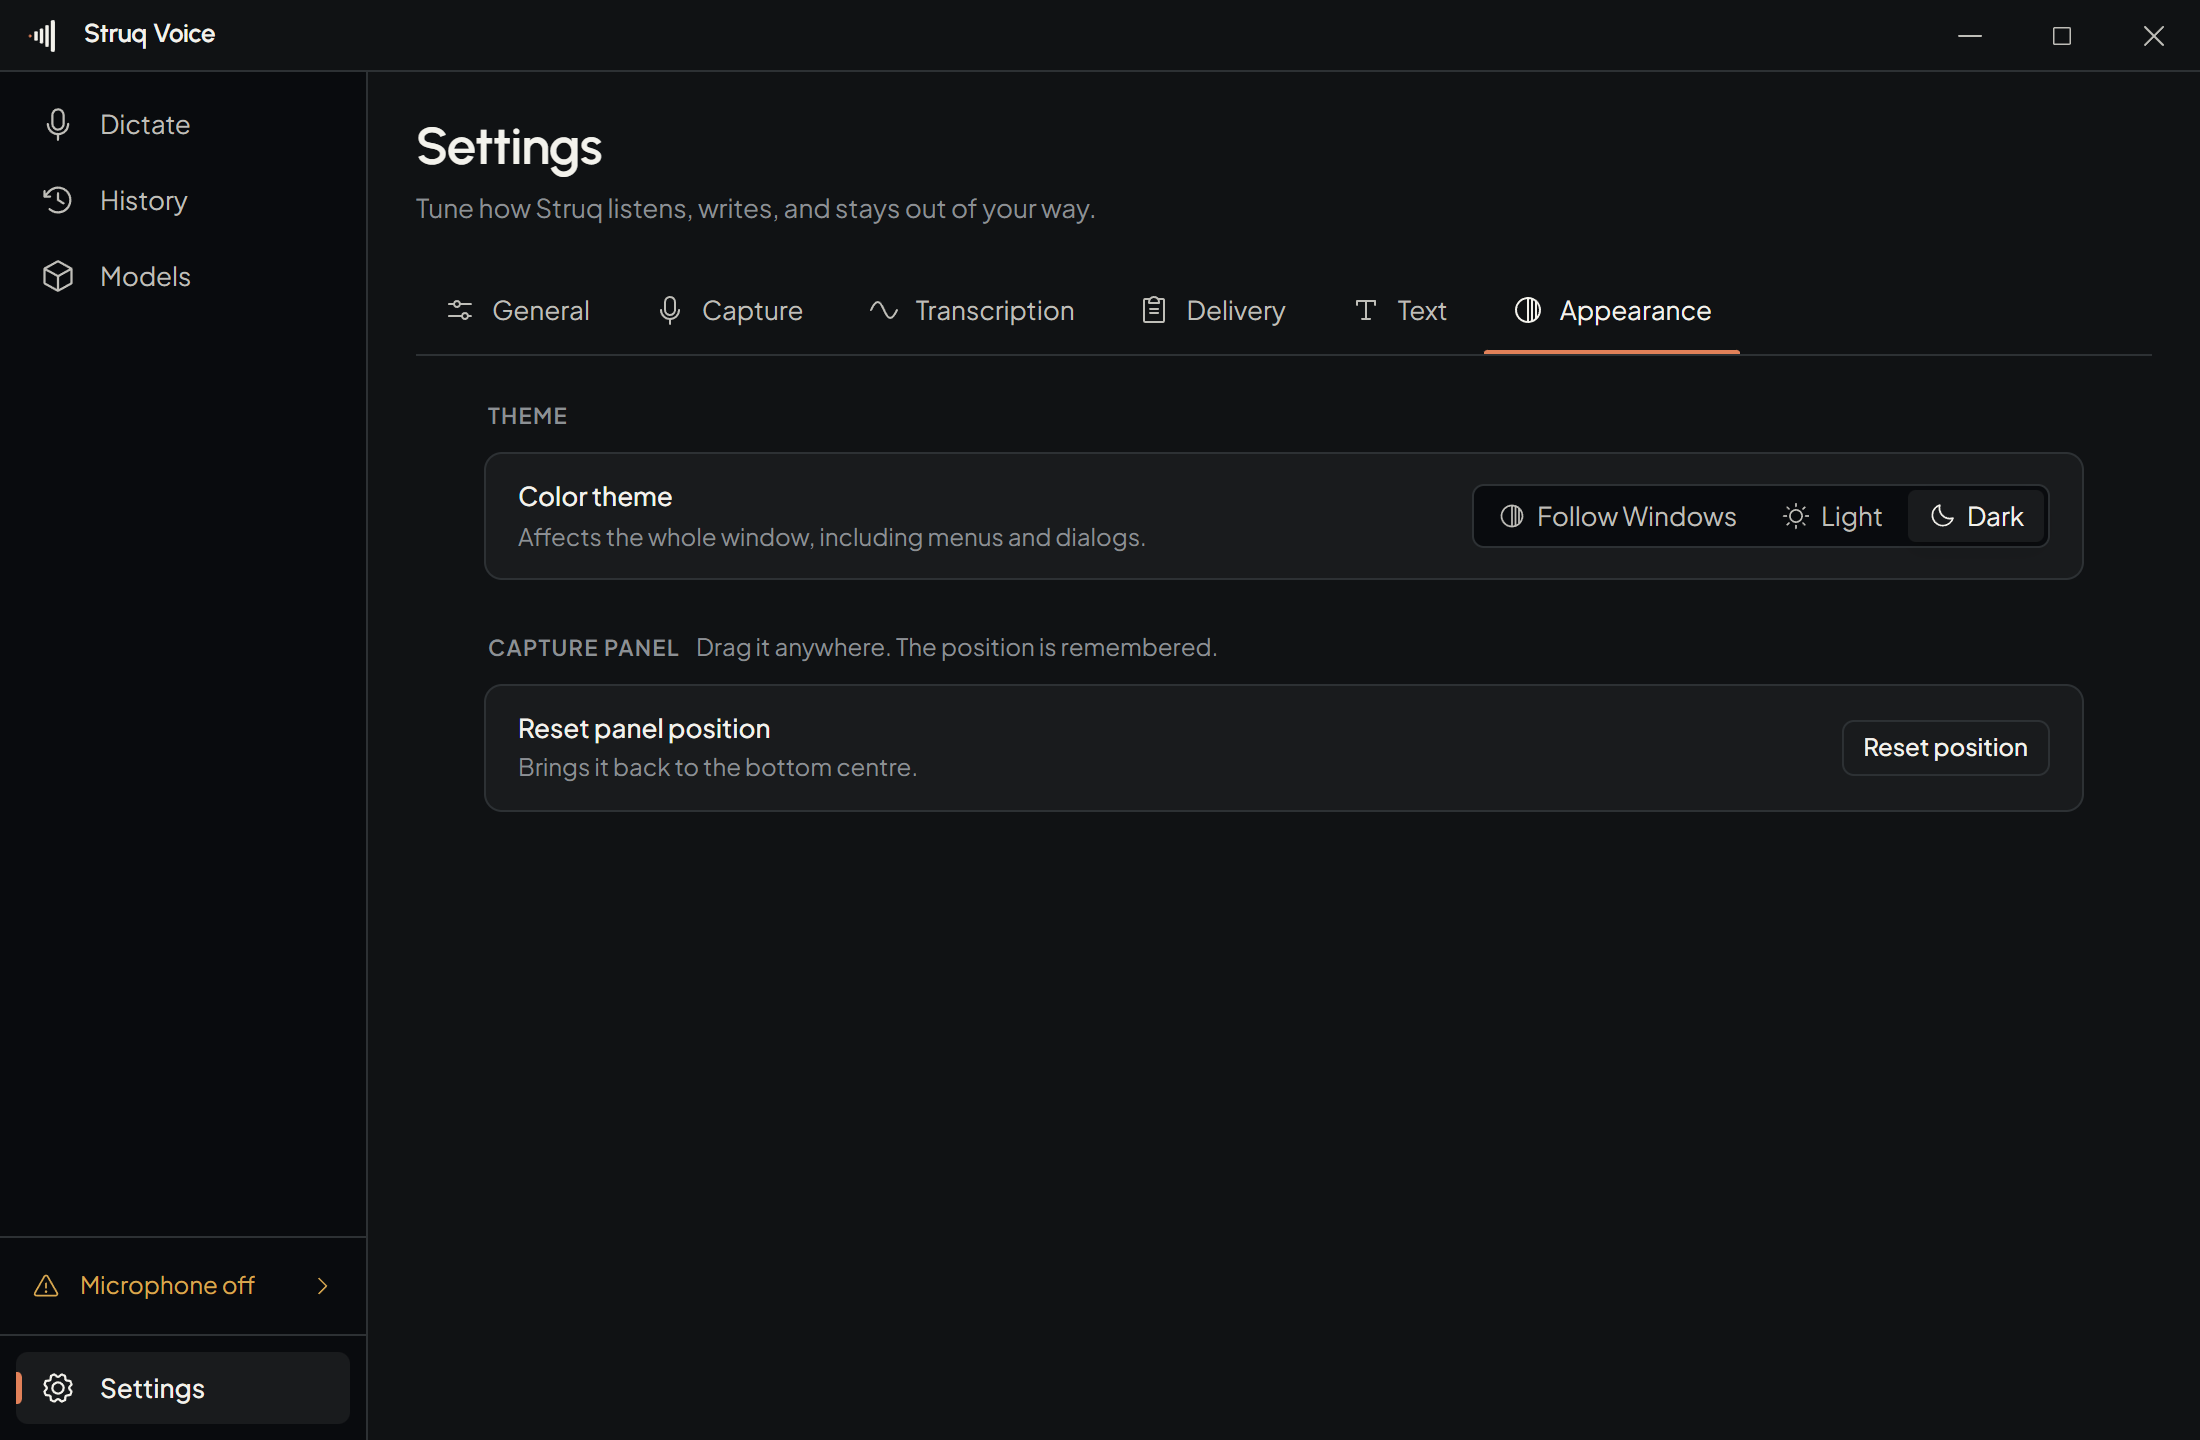
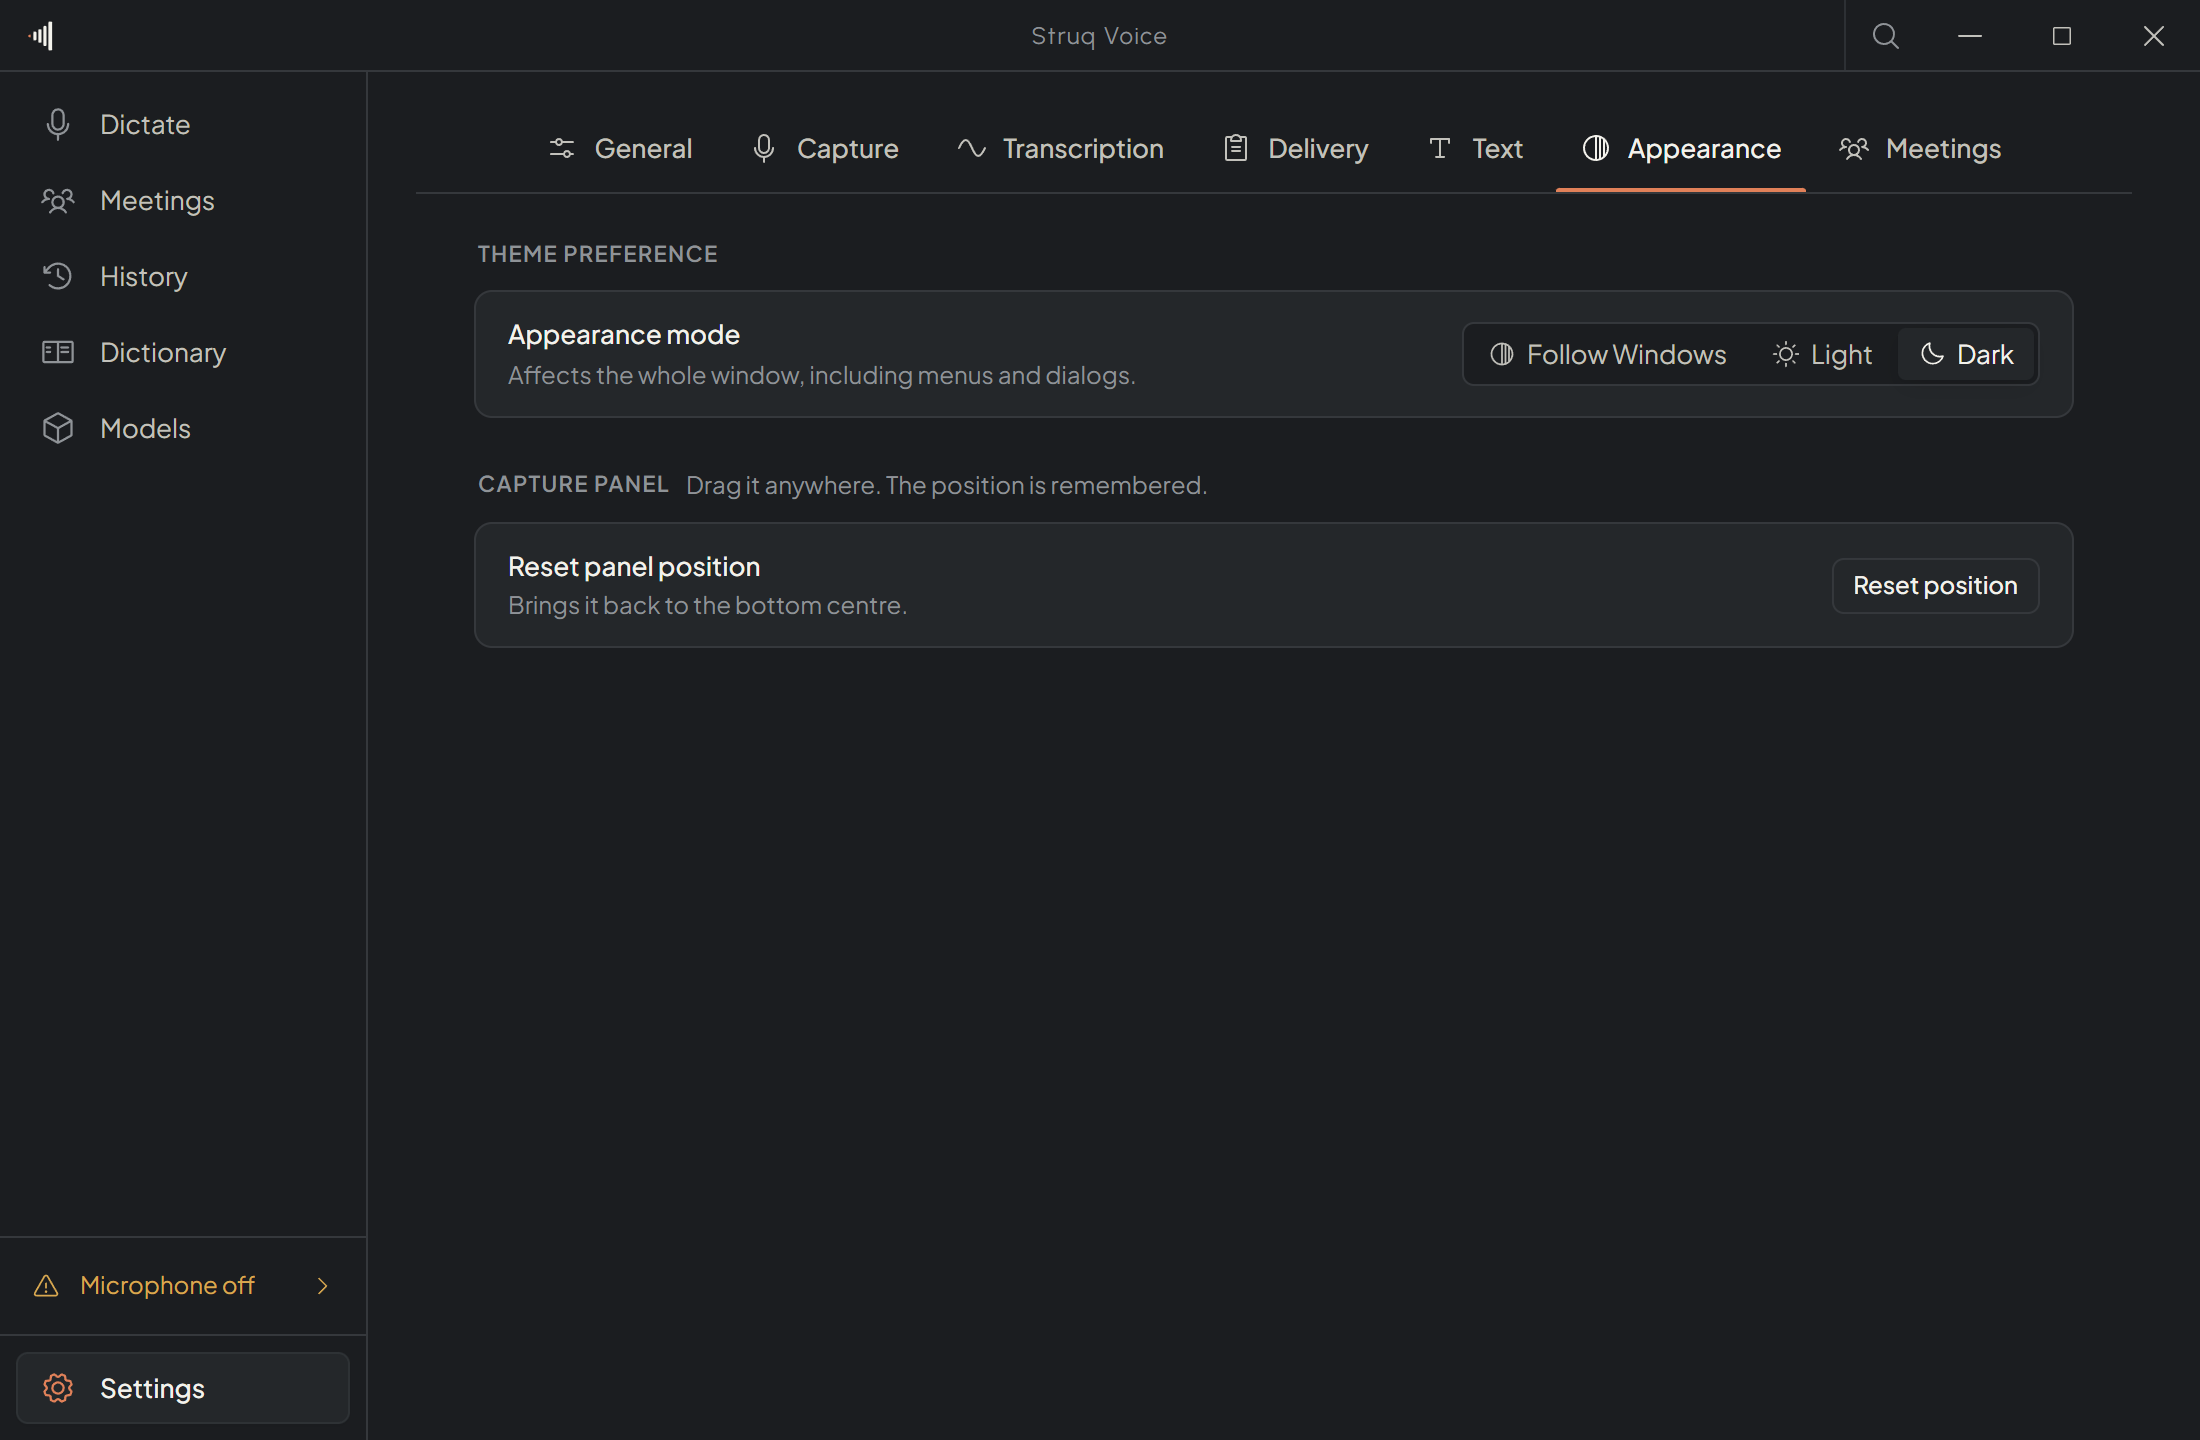
docs: refresh screenshots and cover meetings and dictionary
The committed shots predated the Meetings and Dictionary views, the Dictate
stats redesign, and the overlay pill resize, so the README showed an app that
no longer exists.

Re-captured every shot and added two views to "A look inside". The capture
script needed repairs first, or a re-run would have reproduced the same
problems:

- link meeting-assets into the throwaway profile, or Meetings photographs as
  a first-run download screen rather than a library
- open the seeded meeting, so the shot shows the speaker-separated transcript
- fill the Dictionary sample box, turning "0 of 6 rules firing" into 4
- pin locale to en, since the nav is translated and every step navigates by
  English label
- clip the overlay at 280x48 rather than the stale 360x88, which padded every
  pill shot with dead margin
- press Ctrl+F for the palette, which moved from Ctrl+K

Under STRUQ_VOICE_E2E the recorder never opens a microphone, so the pill drew
a flat resting line. The script now pushes a speech-shaped envelope down the
same channel the recorder would use, and asserts that channel name against
src/shared/ipc.ts so a rename fails loudly instead of silently flattening the
waveform again.

Also corrects stale README copy: Dictate is a stats view now, not a readiness
home, and the route lists omitted Meetings and Dictionary.

diff --git a/README.md b/README.md
@@ -163,12 +163,22 @@ never crosses IPC back into a renderer.
 <table>
   <tr>
     <td width="50%" valign="top">
-      <img src="./docs/images/dictate.png" alt="The Dictate view: readiness rows for microphone and engine, and the last transcript" />
-      <p><strong>Dictate</strong><br/>A readiness home rather than a dashboard. Each row states what is true now, and a row that is not ready names the cause and offers the fix in the same place.</p>
+      <img src="./docs/images/dictate.png" alt="The Dictate view: words, time spoken, pace and streak above an activity chart and the recent transcripts" />
+      <p><strong>Dictate</strong><br/>Words, time spoken, pace and streak over an activity chart, with the hold-to-speak binding and your recent transcripts underneath.</p>
     </td>
+    <td width="50%" valign="top">
+      <img src="./docs/images/meetings.png" alt="A finished meeting: the transcript split by speaker with a named speaker list" />
+      <p><strong>Meetings</strong><br/>Record a whole conversation, not a sentence. The microphone is always you; the system audio is clustered into speakers you can rename, and the transcript exports as Markdown, text or SRT.</p>
+    </td>
+  </tr>
+  <tr>
     <td width="50%" valign="top">
       <img src="./docs/images/history.png" alt="The History view: transcripts in a serif reading face with full-text search" />
       <p><strong>History</strong><br/>Every transcript, searchable through FTS5, virtualized, and set in the reading face the words deserve.</p>
+    </td>
+    <td width="50%" valign="top">
+      <img src="./docs/images/dictionary.png" alt="The Dictionary view: replacement rules with a live sample showing which ones fire" />
+      <p><strong>Dictionary</strong><br/>Rules for what a model reliably mishears, with a sample box that shows which ones fire and what the text becomes before it is ever delivered.</p>
     </td>
   </tr>
   <tr>
@@ -177,8 +187,8 @@ never crosses IPC back into a renderer.
       <p><strong>Models</strong><br/>The one model this machine should run, named with the hardware that chose it, above the full catalog for anyone who wants to choose.</p>
     </td>
     <td width="50%" valign="top">
-      <img src="./docs/images/settings-transcription.png" alt="The Settings view: engine selection with local and cloud markers" />
-      <p><strong>Settings</strong><br/>Capture, Transcription, Delivery and Text behind a sub-nav, with timing values under Advanced. Everything applies immediately.</p>
+      <img src="./docs/images/settings-transcription.png" alt="The Settings view: voice service selection with local and cloud markers" />
+      <p><strong>Settings</strong><br/>General, Capture, Transcription, Delivery, Text, Appearance and Meetings behind a sub-nav. Everything applies immediately.</p>
     </td>
   </tr>
 </table>
@@ -202,7 +212,8 @@ hotkeys, session            AudioWorklet to PCM        transcribing, delivered
 engines, paste, history     streamed to main
 settings, updater
                                                        MAIN WINDOW (on demand)
-                                                       Dictate, History,
+                                                       Dictate, Meetings,
+                                                       History, Dictionary,
                                                        Models, Settings
 ```
 
@@ -314,7 +325,7 @@ cases.
 |---|---|
 | `src/main/` | Lifecycle, hotkeys, capture session, engines, models, paste, database, updater |
 | `src/preload/` | One sandboxed bridge per window type |
-| `src/renderer/main/` | The main window: Dictate, History, Models, Settings |
+| `src/renderer/main/` | The main window: Dictate, Meetings, History, Dictionary, Models, Settings |
 | `src/renderer/overlay/` | The capture pill and its waveform |
 | `src/renderer/recorder/` | The warm microphone and the PCM worklet |
 | `src/shared/` | Types, IPC channel names, settings schema, model catalog |
